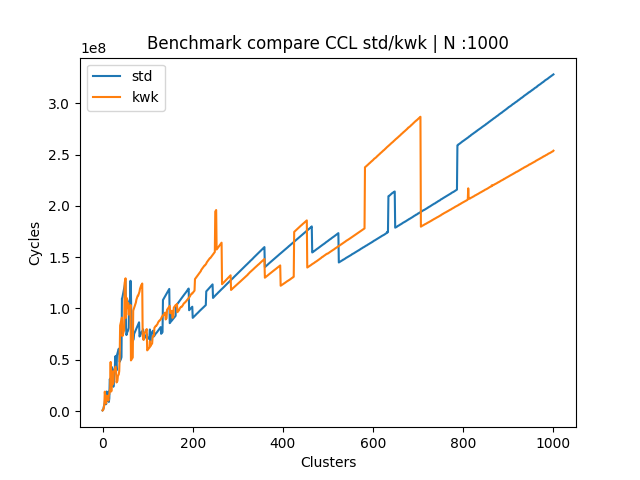
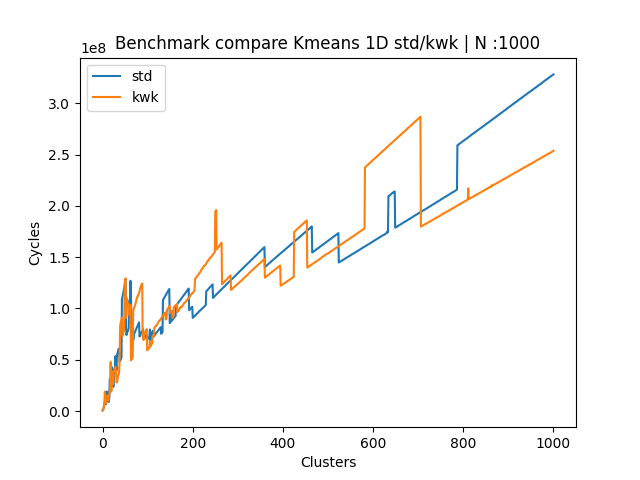
kmeans 1D

Changed region(s): [[0.1562, 0.0625, 0.8438, 0.125]]

diff --git a/benchmark/ML/kmeans_1D/plot_compare.py b/benchmark/ML/kmeans_1D/plot_compare.py
@@ -10,7 +10,7 @@ def plot(df1, df2, metric, save):
   size = df1['Array Size'][1]
   plt.xlabel('Clusters')
   plt.ylabel('Cycles')
-  plt.title('Benchmark compare CCL std/kwk | N :' + str(size))
+  plt.title('Benchmark compare Kmeans 1D std/kwk | N :' + str(size))
   metric1 = ['std']
   metric2 = ['kwk']
   plt.legend(metric1 + metric2)
